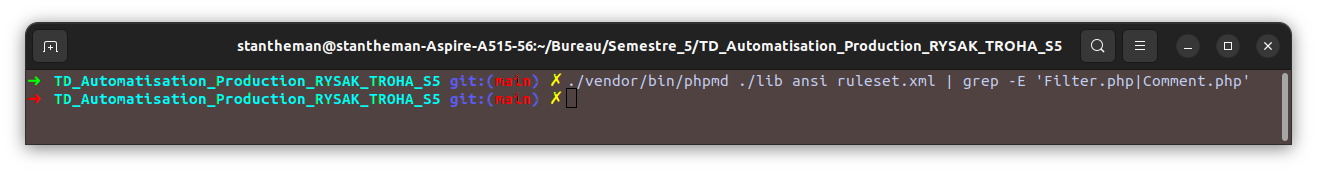
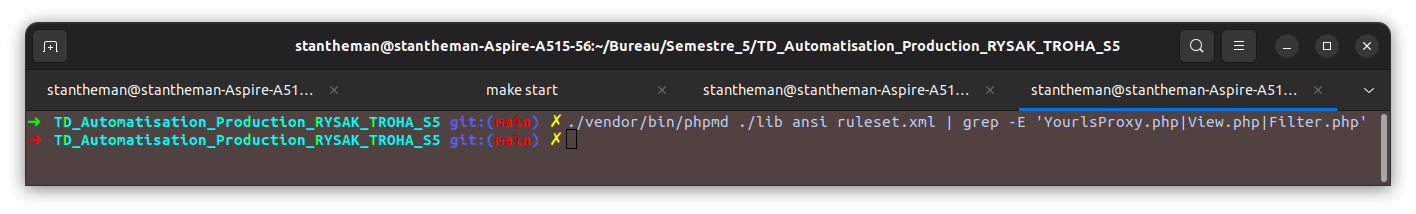
ajout de la correction des 5 erreurs pour phpmd, le coverage fonctionne toujours donc les corrections n'impactent pas le comportement/fonctionnement de l'application

diff --git a/lib/YourlsProxy.php b/lib/YourlsProxy.php
@@ -28,7 +28,7 @@ class YourlsProxy
      * @access private
      * @var    string
      */
-    private $_error = '';
+    private $error = '';
 
     /**
      * shortened URL
@@ -36,7 +36,7 @@ class YourlsProxy
      * @access private
      * @var    string
      */
-    private $_url = '';
+    private $url = '';
 
     /**
      * constructor
@@ -49,18 +49,18 @@ class YourlsProxy
     public function __construct(Configuration $conf, $link)
     {
         if (strpos($link, $conf->getKey('basepath') . '?') === false) {
-            $this->_error = 'Trying to shorten a URL that isn\'t pointing at our instance.';
+            $this->error = 'Trying to shorten a URL that isn\'t pointing at our instance.';
             return;
         }
 
-        $yourls_api_url = $conf->getKey('apiurl', 'yourls');
-        if (empty($yourls_api_url)) {
-            $this->_error = 'Error calling YOURLS. Probably a configuration issue, like wrong or missing "apiurl" or "signature".';
+        $yourlsApiUrl = $conf->getKey('apiurl', 'yourls');
+        if (empty($yourlsApiUrl)) {
+            $this->error = 'Error calling YOURLS. Probably a configuration issue, like wrong or missing "apiurl" or "signature".';
             return;
         }
 
         $data = file_get_contents(
-            $yourls_api_url, false, stream_context_create(
+            $yourlsApiUrl, false, stream_context_create(
                 array(
                     'http' => array(
                         'method'  => 'POST',
@@ -80,7 +80,7 @@ class YourlsProxy
         try {
             $data = Json::decode($data);
         } catch (Exception $e) {
-            $this->_error = 'Error calling YOURLS. Probably a configuration issue, like wrong or missing "apiurl" or "signature".';
+            $this->error = 'Error calling YOURLS. Probably a configuration issue, like wrong or missing "apiurl" or "signature".';
             error_log('Error calling YOURLS: ' . $e->getMessage());
             return;
         }
@@ -91,9 +91,9 @@ class YourlsProxy
             $data['statusCode'] == 200 &&
             array_key_exists('shorturl', $data)
         ) {
-            $this->_url = $data['shorturl'];
+            $this->url = $data['shorturl'];
         } else {
-            $this->_error = 'Error parsing YOURLS response.';
+            $this->error = 'Error parsing YOURLS response.';
         }
     }
 
@@ -105,7 +105,7 @@ class YourlsProxy
      */
     public function getError()
     {
-        return $this->_error;
+        return $this->error;
     }
 
     /**
@@ -116,7 +116,7 @@ class YourlsProxy
      */
     public function getUrl()
     {
-        return $this->_url;
+        return $this->url;
     }
 
     /**
@@ -127,6 +127,6 @@ class YourlsProxy
      */
     public function isError()
     {
-        return !empty($this->_error);
+        return !empty($this->error);
     }
 }

diff --git a/lib/View.php b/lib/View.php
@@ -27,7 +27,7 @@ class View
      * @access private
      * @var    array
      */
-    private $_variables = array();
+    private $variables = array();
 
     /**
      * assign variables to be used inside of the template
@@ -38,7 +38,7 @@ class View
      */
     public function assign($name, $value)
     {
-        $this->_variables[$name] = $value;
+        $this->variables[$name] = $value;
     }
 
     /**
@@ -55,7 +55,7 @@ class View
         if (!file_exists($path)) {
             throw new Exception('Template ' . $template . ' not found!', 80);
         }
-        extract($this->_variables);
+        extract($this->variables);
         include $path;
     }
 }

diff --git a/lib/Filter.php b/lib/Filter.php
@@ -61,11 +61,11 @@ class Filter
     public static function formatHumanReadableSize($size)
     {
         $iec = array('B', 'KiB', 'MiB', 'GiB', 'TiB', 'PiB', 'EiB', 'ZiB', 'YiB');
-        $i   = 0;
+        $iter   = 0;
         while (($size / 1024) >= 1) {
             $size = $size / 1024;
-            ++$i;
+            ++$iter;
         }
-        return number_format($size, ($i ? 2 : 0), '.', ' ') . ' ' . I18n::_($iec[$i]);
+        return number_format($size, ($iter ? 2 : 0), '.', ' ') . ' ' . I18n::_($iec[$iter]);
     }
 }

diff --git a/README.md b/README.md
@@ -356,27 +356,31 @@ Une fois les erreurs et warnings corrigés, [lib/Data/S3Storage.php](lib/Data/S3
 
 
 ##### PHPMD
-4 violations proviennent du même fichier :
-<u>FILE</u>: [lib/Model/Comment.php](lib/Model/Comment.php)
+3 violations proviennent du même fichier :
+<u>FILE</u>: [lib/YourlsProxy.php](lib/YourlsProxy.php)
 ```bash
-----------------------------------------------------------------------------------------------------------
- 26  | VIOLATION | The property $_paste is not named in camelCase.
- 132 | VIOLATION | Avoid variables with short names like $id. Configured minimum length is 3.
- 161 | VIOLATION | The method _sanitize is not named in camelCase.
- 182 | VIOLATION | Avoid variables with short names like $vh. Configured minimum length is 3.
+--------------------------------------------------------------------------------------------------------
+ 23  | VIOLATION | The property $_error is not named in camelCase.
+ 23  | VIOLATION | The property $_url is not named in camelCase.
+ 56  | VIOLATION | The variable $yourls_api_url is not named in camelCase.
 ```
 
-L'autre violation provient de :
+Une autre violation provient de :
+<u>FILE</u>: [lib/View.php](lib/View.php)
+```bash
+-------------------------------------------------------------------------------------------------
+ 22  | VIOLATION | The property $_variables is not named in camelCase.
+```
+
+La dernière violation provient de : 
 <u>FILE</u>: [lib/Filter.php](lib/Filter.php)
 ```bash
 ---------------------------------------------------------------------------------------------------
- 67  | VIOLATION | Avoid variables with short names like $i. Configured minimum length is 3.
-```
+ 64  | VIOLATION | Avoid variables with short names like $i. Configured minimum length is 3.
+``` 
 
-Une fois ces modifications faites, on constate qu'il n'y a plus aucune violation, ni dans [lib/Model/Comment.php](lib/Model/Comment.php) ni dans [lib/Filter.php](lib/Filter.php) puisque les classes n'apparaissent plus dans la sortie de **phpmd** :
+Une fois ces modifications faites, on constate qu'il n'y a plus aucune violation, ni dans [lib/YourlsProxy.php](lib/YourlsProxy.php) ni dans [lib/View.php](lib/View.php) ou encore [lib/Filter.php](lib/Filter.php) puisque les classes n'apparaissent plus dans la sortie de **phpmd** :
 ![phpmd_violations](ressources/phpmd_violations.png)
-
-
 
 
 
